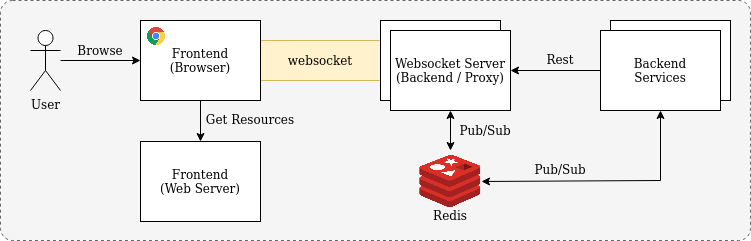
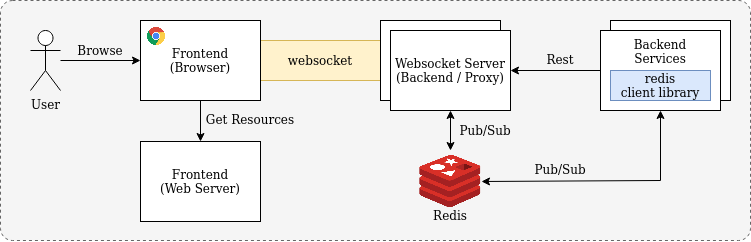
abstracted logic into redis-client-starter

diff --git a/redis-client-starter/src/main/kotlin/com/example/notification/redis/AbstractRedisService.kt b/redis-client-starter/src/main/kotlin/com/example/notification/redis/AbstractRedisService.kt
@@ -1,0 +1,37 @@
+package com.example.notification.redis
+
+import org.slf4j.Logger
+import org.slf4j.LoggerFactory
+import org.springframework.data.redis.connection.ReactiveSubscription
+import org.springframework.data.redis.core.ReactiveRedisTemplate
+import org.springframework.data.redis.listener.ChannelTopic
+import javax.annotation.PostConstruct
+
+abstract class AbstractRedisService(
+    private val reactiveRedisTemplate: ReactiveRedisTemplate<String, String>,
+    private val redisClientProperties: RedisClientProperties
+) {
+    companion object {
+        val logger: Logger = LoggerFactory.getLogger(AbstractRedisService::class.java)
+    }
+
+    abstract fun processReceivedMessage(topic: String, message: String)
+
+    fun publish(topic: String, message: String) {
+        logger.debug("Publishing to Redis Channel: $topic")
+        reactiveRedisTemplate.convertAndSend(topic, message).subscribe()
+    }
+
+    @PostConstruct
+    fun subscribe() {
+        redisClientProperties.inboundTopics?.forEach { topic ->
+            logger.info("Subscribing to Redis Channel: $topic")
+            reactiveRedisTemplate.listenTo(ChannelTopic.of(topic))
+                .map(ReactiveSubscription.Message<String, String>::getMessage)
+                .subscribe { message ->
+                    logger.debug("Receiving Redis Event --> $message")
+                    processReceivedMessage(topic, message)
+                }
+        }
+    }
+}

diff --git a/sample-backend-service/src/main/kotlin/com/example/notification/config/SchedulerConfig.kt b/sample-backend-service/src/main/kotlin/com/example/notification/config/SchedulerConfig.kt
@@ -1,8 +1,8 @@
 package com.example.notification.config
 
 import com.example.notification.service.RedisService
+import com.example.notification.service.WebsocketService
 import com.example.notification.websocket.WebsocketClientProperties
-import com.example.notification.websocket.WebsocketServiceImpl
 import org.springframework.beans.factory.annotation.Value
 import org.springframework.context.annotation.Configuration
 import org.springframework.scheduling.annotation.EnableScheduling
@@ -15,10 +15,10 @@ import org.springframework.scheduling.annotation.Scheduled
 @Configuration
 @EnableScheduling
 class SchedulerConfig(
-    private val websocketClientProperties: WebsocketClientProperties,
-    private val websocketService: WebsocketServiceImpl,
-    private val redisService: RedisService,
-    @Value("\${redis-client.outbound-topics}") private val outboundTopics: List<String>,
+        private val websocketClientProperties: WebsocketClientProperties,
+        private val websocketService: WebsocketService,
+        private val redisService: RedisService,
+        @Value("\${redis-client.outbound-topics}") private val outboundTopics: List<String>,
 ) {
     @Scheduled(fixedRate = 60000) // every 1 minute
     fun sendToServer() {

diff --git a/redis-client-starter/src/main/kotlin/com/example/notification/redis/RedisServiceAutoConfiguration.kt b/redis-client-starter/src/main/kotlin/com/example/notification/redis/RedisServiceAutoConfiguration.kt
@@ -1,0 +1,22 @@
+package com.example.notification.redis
+
+import org.springframework.boot.autoconfigure.condition.ConditionalOnClass
+import org.springframework.boot.autoconfigure.condition.ConditionalOnMissingBean
+import org.springframework.boot.context.properties.EnableConfigurationProperties
+import org.springframework.context.annotation.Bean
+import org.springframework.context.annotation.Configuration
+import org.springframework.data.redis.core.ReactiveRedisTemplate
+
+@Configuration
+@ConditionalOnClass(AbstractRedisService::class)
+@EnableConfigurationProperties(RedisClientProperties::class)
+class RedisServiceAutoConfiguration(
+    private val reactiveRedisTemplate: ReactiveRedisTemplate<String, String>,
+    private val redisClientProperties: RedisClientProperties,
+) {
+    @Bean
+    @ConditionalOnMissingBean
+    fun websocketService(): AbstractRedisService {
+        return RedisServiceImpl(reactiveRedisTemplate, redisClientProperties)
+    }
+}

diff --git a/redis-client-starter/src/main/kotlin/com/example/notification/redis/RedisServiceImpl.kt b/redis-client-starter/src/main/kotlin/com/example/notification/redis/RedisServiceImpl.kt
@@ -1,16 +1,14 @@
-package com.example.notification.service
+package com.example.notification.redis
 
-import com.example.notification.redis.AbstractRedisService
-import com.example.notification.redis.RedisClientProperties
 import org.springframework.data.redis.core.ReactiveRedisTemplate
 import org.springframework.stereotype.Service
 
 @Service
-class RedisService(
+class RedisServiceImpl(
     reactiveRedisTemplate: ReactiveRedisTemplate<String, String>,
-    redisClientProperties: RedisClientProperties
+    redisClientProperties: RedisClientProperties,
 ): AbstractRedisService(reactiveRedisTemplate, redisClientProperties) {
     override fun processReceivedMessage(topic: String, message: String) {
-        logger.info("Processing redis event - topic: $topic, message: $message")
+        logger.error("Please implement your own redisService to process the received message!")
     }
 }

diff --git a/redis-client-starter/src/main/kotlin/com/example/notification/redis/RedisClientProperties.kt b/redis-client-starter/src/main/kotlin/com/example/notification/redis/RedisClientProperties.kt
@@ -1,0 +1,11 @@
+package com.example.notification.redis
+
+import org.springframework.boot.context.properties.ConfigurationProperties
+import org.springframework.boot.context.properties.ConstructorBinding
+
+@ConstructorBinding
+@ConfigurationProperties(prefix = "redis-client")
+data class RedisClientProperties(
+    val inboundTopics: List<String>? = listOf(),
+    val outboundTopics: List<String>? = listOf()
+)

diff --git a/websocket-client-starter/src/test/kotlin/com/example/notification/ClientStarterApplicationTests.kt b/websocket-client-starter/src/test/kotlin/com/example/notification/ClientStarterApplicationTests.kt
@@ -1,0 +1,13 @@
+package com.example.notification
+
+import org.junit.jupiter.api.Test
+import org.springframework.boot.test.context.SpringBootTest
+
+@SpringBootTest
+class ClientStarterApplicationTests {
+
+	@Test
+	fun contextLoads() {
+	}
+
+}

diff --git a/redis-client-starter/src/test/kotlin/com/example/notification/ClientStarterApplicationTests.kt b/redis-client-starter/src/test/kotlin/com/example/notification/ClientStarterApplicationTests.kt
@@ -4,7 +4,7 @@ import org.junit.jupiter.api.Test
 import org.springframework.boot.test.context.SpringBootTest
 
 @SpringBootTest
-class BackendApplicationTests {
+class ClientStarterApplicationTests {
 
 	@Test
 	fun contextLoads() {

diff --git a/redis-client-starter/src/main/kotlin/com/example/notification/redis/RedisConfig.kt b/redis-client-starter/src/main/kotlin/com/example/notification/redis/RedisConfig.kt
@@ -1,4 +1,4 @@
-package com.example.notification.config
+package com.example.notification.redis
 
 import org.springframework.context.annotation.Bean
 import org.springframework.context.annotation.Configuration

diff --git a/redis-client-starter/README.md b/redis-client-starter/README.md
@@ -1,0 +1,43 @@
+# Redis Client Starter Library
+
+This starter library contains the implementation for quick integration for publishing and subscribing to redis.
+
+## Usage
+
+1. Import the dependency to your Spring Boot project
+
+   ```bash
+   implementation("com.example.notification:redis-client-starter:1.0.0")
+   ```
+   
+2. Add the following properties to your **application.yml**
+   
+   ```yaml
+   redis-client:
+    outbound-topics: 
+       - "TOAST_MESSAGE"
+    inbound-topics: 
+       - "GREETINGS"
+   
+   spring:
+     redis:
+       host: localhost   # Redis Server Host
+       port: 6379        # Redis Server Port
+       ssl: false        # Enable SSL support
+       database: 0       # database index
+   ```
+
+3. Create Redis Service
+
+   ```kotlin
+   @Service
+   class RedisService(
+       reactiveRedisTemplate: ReactiveRedisTemplate<String, String>,
+       redisClientProperties: RedisClientProperties
+   ): AbstractRedisService(reactiveRedisTemplate, redisClientProperties) {
+       override fun processReceivedMessage(topic: String, message: String) {
+           logger.info("Processing redis event - topic: $topic, message: $message")
+       }
+   }
+   ```
+

diff --git a/websocket-client-starter/README.md b/websocket-client-starter/README.md
@@ -15,5 +15,20 @@ This starter library contains the implementation of spring boot websocket stomp 
    ```yaml
    websocket-client:
        broker-url: ws://localhost:8080/stomp
-       inbound-topics: "/topic/greetings"
+       inbound-topics: 
+         - "/topic/greetings"
+       outbound-topics: 
+         - "/server/test"
    ```
+
+3. Create Websocket Service
+ 
+    ```kotlin
+    @Service
+    class WebsocketService(websocketClientProperties: WebsocketClientProperties): AbstractWebsocketService(websocketClientProperties) {
+        override fun processReceivedMessage(destination: String, message: String) {
+            logger.info("Processing websocket message - destination: $destination, message: $message")
+        }
+    }
+    ```
+
